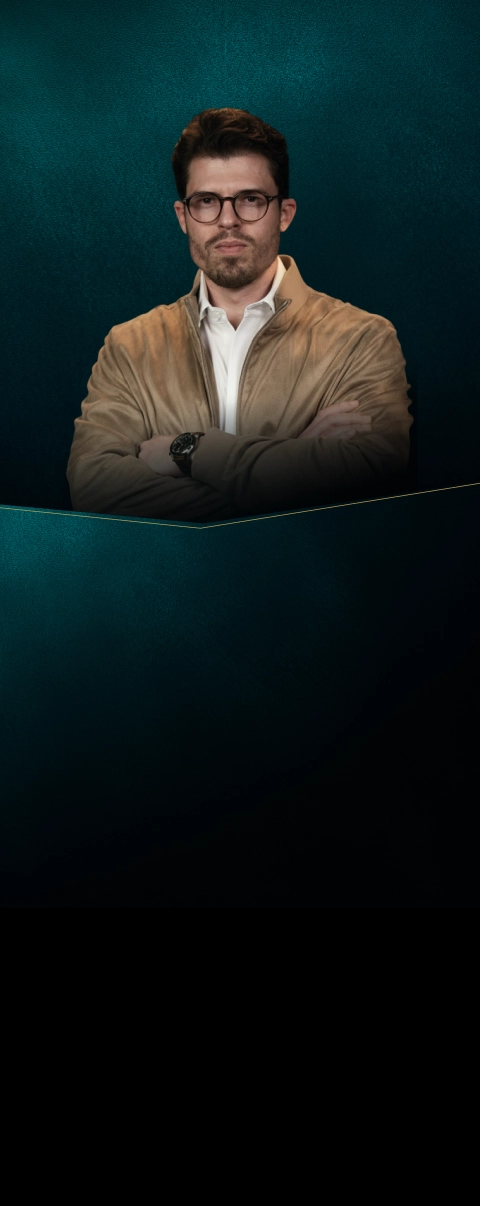
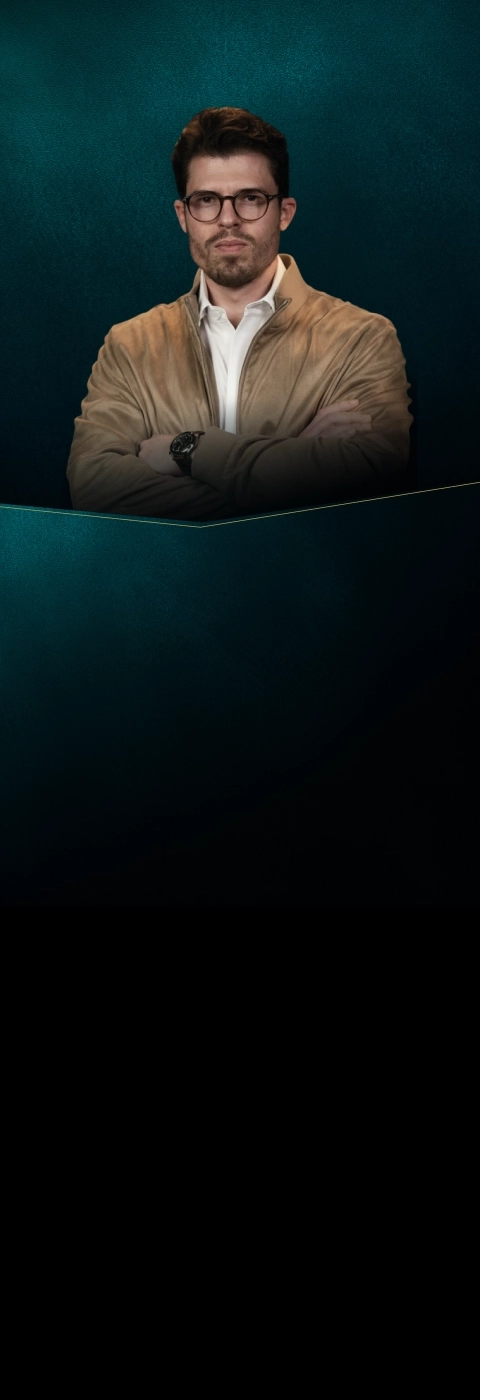
Troca de biografia ramon e adaptação de tamanho de fonte + bg de fundo

Changed region(s): [[0.0, 0.0614, 0.875, 0.5216]]

diff --git a/app/ldi/[version]/v5/fourth-section.tsx b/app/ldi/[version]/v5/fourth-section.tsx
@@ -9,7 +9,7 @@ export default function FourthSection() {
 		<section
 			className="
 				w-full
-				min-h-[1206px]
+				min-h-[1600px]
 				md:min-h-[916px]
 				bg-[#071117]
 				bg-[url('/images/v5/bg_fourth_mobile.webp')]
@@ -19,48 +19,46 @@ export default function FourthSection() {
 				bg-no-repeat
 				flex
 				flex-col
-				md:justify-center
-        justify-start
+				md:justify-start
+				justify-start
 				px-6
 				pt-6
 				pb-6
 				md:px-4
-				md:pt-16
+				md:pt-[260px]
 				md:pb-8
 			"
 		>
-			<div className="w-full max-w-[1156px] mx-auto flex items-start justify-end md:mt-[130px]">
+			<div className="w-full max-w-[1156px] mx-auto flex items-start justify-end">
 				<div className="flex flex-col gap-4 max-w-[517px] w-full">
 					<p className="text-[#0A3740] font-spectral text-[25px] md:text-[35px] text-center md:text-left leading-[125%] font-bold -mt-3 md:mt-0">
 						QUEM VAI SER O SEU MENTOR NESSA JORNADA?
 					</p>
 
-					<div className="mt-[380px] md:mt-0 w-full max-w-[350px] mx-auto flex flex-col gap-4 md:max-w-[517px]">
+					<div className="mt-[400px] md:mt-0 w-full max-w-[350px] mx-auto flex flex-col gap-4 md:max-w-[517px]">
 						<p className="text-[#C0964B] font-spectral text-[30px] text-left leading-[125%] font-bold md:mt-0">
 							Ramon Galimberti
 						</p>
 
-						{/* PARÁGRAFO 1 */}
-						<p className="text-[#0A3740] font-mulish text-[12px] md:text-[12px] text-left leading-[135%] font-semibold">
-							Engenheiro, mestre e mentor de desenvolvimento humano. Durante muito tempo, viveu a frustração de se esforçar, tentar, insistir — e mesmo assim ver a vida parar no quase. O dinheiro não permanecia, os planos não se firmavam, o relacionamento não deu certo e ele chegou a usar o ticket do pai para fazer compra no mercado e virar o mês. Era divorciado, estava travado em várias áreas da vida e carregava a sensação de que fazia muito, mas avançava pouco.
+						<p className="text-[#0A3740] font-mulish text-[16px] text-left leading-[135%] font-semibold">
+							Engenheiro, mestre e mentor de desenvolvimento humano. Durante muito tempo, Ramon viveu a frustração de se esforçar muito e ver a vida parar no quase. O dinheiro não permanecia, os planos não se firmavam, o relacionamento não deu certo e ele usava o ticket do pai para virar o mês.
 						</p>
 
-						{/* PARÁGRAFO 2 COM DESTAQUE */}
-						<p className="text-[#0A3740] font-mulish text-[12px] md:text-[12px] text-left leading-[135%] font-semibold">
-							Foi na busca por entender por que isso acontecia que Ramon encontrou uma resposta que mudou sua história. A partir daí, uniu sua base lógica em engenharia, seu olhar para o comportamento humano e sua experiência prática para desenvolver uma forma própria de identificar e corrigir os padrões invisíveis que travam dinheiro, relacionamentos, decisões e liberdade.{" "}
-							<span className="text-[#C0964B] font-extrabold">
-								Por que pessoas capazes continuam presas no quase.
-							</span>
+						<p className="text-[#0A3740] font-mulish text-[16px] text-left leading-[135%] font-semibold">
+							Travado na vida, buscou resposta do porquê isso acontecia. E assim, ele uniu seus conhecimentos em engenharia, comportamento humano e sua experiência prática para identificar e corrigir os padrões invisíveis que travam dinheiro, relacionamentos, decisões e liberdade.
 						</p>
 
-						{/* PARÁGRAFO 3 */}
-						<p className="text-[#0A3740] font-mulish text-[12px] md:text-[12px] text-left leading-[135%] font-semibold">
-							Hoje, Ramon é casado, construiu uma nova história, tornou-se o primeiro brasileiro autorizado a aplicar a Teoria da Permissão e tem mais de 160 mil pessoas acompanhando seu trabalho. Já foi convidado para compartilhar essa mensagem em emissoras como SBT, Band e Record porque fala de algo que muita gente vive, mas quase ninguém sabe explicar. No Levante dos Improváveis, Ramon conduz uma experiência para quem está cansado de repetir estagnação e quer entender o que realmente precisa ser corrigido para avançar.
+						<p className="text-[#0A3740] font-mulish text-[16px] text-left leading-[135%] font-semibold">
+							Hoje, Ramon é casado, construiu uma nova história e tornou-se o primeiro brasileiro autorizado a aplicar a Teoria da Permissão. Com mais de 160 mil seguidores e passagens por emissoras como SBT, Band e Record, vem falando de algo que muita gente vive, mas quase ninguém sabe explicar: por que pessoas capazes continuam presas no quase?
+						</p>
+
+						<p className="text-[#0A3740] font-mulish text-[16px] text-left leading-[135%] font-semibold">
+							No Levante dos Improváveis, Ramon conduz uma experiência para quem está cansado de repetir estagnação e quer entender o que realmente precisa ser corrigido para avançar.
 						</p>
 
 						<button
 							onClick={handleScroll}
-							className="mt-[12px] mb-[12px] w-full h-[64px] md:h-[64px] rounded-[8px] font-mulish font-extrabold text-[14px] md:text-[16px] leading-[145%] uppercase text-black transition-all hover:brightness-110 border border-[#FCF3D4] [background:linear-gradient(90deg,_#DFD2A7_0%,_#FCF3D4_100%)] shadow-[0px_6px_18.9px_0px_#F7EDCC85]"
+							className="mt-[12px] mb-[12px] w-full h-[64px] rounded-[8px] font-mulish font-extrabold text-[14px] md:text-[16px] leading-[145%] uppercase text-black transition-all hover:brightness-110 border border-[#FCF3D4] [background:linear-gradient(90deg,_#DFD2A7_0%,_#FCF3D4_100%)] shadow-[0px_6px_18.9px_0px_#F7EDCC85]"
 						>
 							PARTICIPAR GRATUITAMENTE
 						</button>

diff --git a/app/ldi/[version]/v6/fourth-section.tsx b/app/ldi/[version]/v6/fourth-section.tsx
@@ -9,7 +9,7 @@ export default function FourthSection() {
 		<section
 			className="
 				w-full
-				min-h-[1206px]
+				min-h-[1600px]
 				md:min-h-[916px]
 				bg-[#071117]
 				bg-[url('/images/v5/bg_fourth_mobile.webp')]
@@ -19,48 +19,46 @@ export default function FourthSection() {
 				bg-no-repeat
 				flex
 				flex-col
-				md:justify-center
-        justify-start
+				md:justify-start
+				justify-start
 				px-6
 				pt-6
 				pb-6
 				md:px-4
-				md:pt-16
+				md:pt-[260px]
 				md:pb-8
 			"
 		>
-			<div className="w-full max-w-[1156px] mx-auto flex items-start justify-end md:mt-[130px]">
+			<div className="w-full max-w-[1156px] mx-auto flex items-start justify-end">
 				<div className="flex flex-col gap-4 max-w-[517px] w-full">
 					<p className="text-[#0A3740] font-spectral text-[25px] md:text-[35px] text-center md:text-left leading-[125%] font-bold -mt-3 md:mt-0">
 						QUEM VAI SER O SEU MENTOR NESSA JORNADA?
 					</p>
 
-					<div className="mt-[380px] md:mt-0 w-full max-w-[350px] mx-auto flex flex-col gap-4 md:max-w-[517px]">
+					<div className="mt-[400px] md:mt-0 w-full max-w-[350px] mx-auto flex flex-col gap-4 md:max-w-[517px]">
 						<p className="text-[#C0964B] font-spectral text-[30px] text-left leading-[125%] font-bold md:mt-0">
 							Ramon Galimberti
 						</p>
 
-						{/* PARÁGRAFO 1 */}
-						<p className="text-[#0A3740] font-mulish text-[12px] md:text-[12px] text-left leading-[135%] font-semibold">
-							Engenheiro, mestre e mentor de desenvolvimento humano. Durante muito tempo, viveu a frustração de se esforçar, tentar, insistir — e mesmo assim ver a vida parar no quase. O dinheiro não permanecia, os planos não se firmavam, o relacionamento não deu certo e ele chegou a usar o ticket do pai para fazer compra no mercado e virar o mês. Era divorciado, estava travado em várias áreas da vida e carregava a sensação de que fazia muito, mas avançava pouco.
+						<p className="text-[#0A3740] font-mulish text-[16px] text-left leading-[135%] font-semibold">
+							Engenheiro, mestre e mentor de desenvolvimento humano. Durante muito tempo, Ramon viveu a frustração de se esforçar muito e ver a vida parar no quase. O dinheiro não permanecia, os planos não se firmavam, o relacionamento não deu certo e ele usava o ticket do pai para virar o mês.
 						</p>
 
-						{/* PARÁGRAFO 2 COM DESTAQUE */}
-						<p className="text-[#0A3740] font-mulish text-[12px] md:text-[12px] text-left leading-[135%] font-semibold">
-							Foi na busca por entender por que isso acontecia que Ramon encontrou uma resposta que mudou sua história. A partir daí, uniu sua base lógica em engenharia, seu olhar para o comportamento humano e sua experiência prática para desenvolver uma forma própria de identificar e corrigir os padrões invisíveis que travam dinheiro, relacionamentos, decisões e liberdade.{" "}
-							<span className="text-[#C0964B] font-extrabold">
-								Por que pessoas capazes continuam presas no quase.
-							</span>
+						<p className="text-[#0A3740] font-mulish text-[16px] text-left leading-[135%] font-semibold">
+							Travado na vida, buscou resposta do porquê isso acontecia. E assim, ele uniu seus conhecimentos em engenharia, comportamento humano e sua experiência prática para identificar e corrigir os padrões invisíveis que travam dinheiro, relacionamentos, decisões e liberdade.
 						</p>
 
-						{/* PARÁGRAFO 3 */}
-						<p className="text-[#0A3740] font-mulish text-[12px] md:text-[12px] text-left leading-[135%] font-semibold">
-							Hoje, Ramon é casado, construiu uma nova história, tornou-se o primeiro brasileiro autorizado a aplicar a Teoria da Permissão e tem mais de 160 mil pessoas acompanhando seu trabalho. Já foi convidado para compartilhar essa mensagem em emissoras como SBT, Band e Record porque fala de algo que muita gente vive, mas quase ninguém sabe explicar. No Levante dos Improváveis, Ramon conduz uma experiência para quem está cansado de repetir estagnação e quer entender o que realmente precisa ser corrigido para avançar.
+						<p className="text-[#0A3740] font-mulish text-[16px] text-left leading-[135%] font-semibold">
+							Hoje, Ramon é casado, construiu uma nova história e tornou-se o primeiro brasileiro autorizado a aplicar a Teoria da Permissão. Com mais de 160 mil seguidores e passagens por emissoras como SBT, Band e Record, vem falando de algo que muita gente vive, mas quase ninguém sabe explicar: por que pessoas capazes continuam presas no quase?
+						</p>
+
+						<p className="text-[#0A3740] font-mulish text-[16px] text-left leading-[135%] font-semibold">
+							No Levante dos Improváveis, Ramon conduz uma experiência para quem está cansado de repetir estagnação e quer entender o que realmente precisa ser corrigido para avançar.
 						</p>
 
 						<button
 							onClick={handleScroll}
-							className="mt-[12px] mb-[12px] w-full h-[64px] md:h-[64px] rounded-[8px] font-mulish font-extrabold text-[14px] md:text-[16px] leading-[145%] uppercase text-black transition-all hover:brightness-110 border border-[#FCF3D4] [background:linear-gradient(90deg,_#DFD2A7_0%,_#FCF3D4_100%)] shadow-[0px_6px_18.9px_0px_#F7EDCC85]"
+							className="mt-[12px] mb-[12px] w-full h-[64px] rounded-[8px] font-mulish font-extrabold text-[14px] md:text-[16px] leading-[145%] uppercase text-black transition-all hover:brightness-110 border border-[#FCF3D4] [background:linear-gradient(90deg,_#DFD2A7_0%,_#FCF3D4_100%)] shadow-[0px_6px_18.9px_0px_#F7EDCC85]"
 						>
 							PARTICIPAR GRATUITAMENTE
 						</button>

diff --git a/app/ldi/[version]/v4/fourth-section.tsx b/app/ldi/[version]/v4/fourth-section.tsx
@@ -9,7 +9,7 @@ export default function FourthSection() {
 		<section
 			className="
 				w-full
-				min-h-[1206px]
+				min-h-[1400px]
 				md:min-h-[862px]
 				bg-[#071117]
 				bg-[url('/images/v1/bg-ramon-mobile.webp')]
@@ -30,40 +30,40 @@ export default function FourthSection() {
 			"
 		>
 			<div className="w-full max-w-[1156px] mx-auto flex items-start justify-end">
-				<div className="flex flex-col gap-4 max-w-[517px] w-full">
-					<p className="text-[#D3CAC0] font-spectral text-[25px] md:text-[35px] text-center md:text-left leading-[125%] font-bold -mt-3 md:mt-0">
+				<div className="flex flex-col gap-4 max-w-[517px] w-full md:mt-[80px]">
+					
+					<p className="text-[#D3CAC0] font-spectral text-[25px] md:text-[35px] text-center md:text-left leading-[125%] font-bold relative -top-[10px] md:top-0">
 						QUEM VAI SER O SEU MENTOR NESSA JORNADA?
 					</p>
 
 					<div className="mt-[450px] md:mt-0 w-full max-w-[350px] mx-auto flex flex-col gap-4 md:max-w-[517px]">
+						
 						<p className="text-[#C0964B] font-spectral text-[30px] text-left leading-[125%] font-bold md:mt-0">
 							Ramon Galimberti
 						</p>
 
-						{/* PARÁGRAFO 1 */}
-						<p className="text-[#F4F0E1] font-mulish text-[13px] text-left leading-[135%] font-semibold">
-							Engenheiro, mestre e mentor de desenvolvimento humano. Durante muito tempo, viveu a frustração de se esforçar, tentar, insistir — e mesmo assim ver a vida parar no quase. O dinheiro não permanecia, os planos não se firmavam, o relacionamento não deu certo e ele chegou a usar o ticket do pai para fazer compra no mercado e virar o mês. Era divorciado, estava travado em várias áreas da vida e carregava a sensação de que fazia muito, mas avançava pouco.
+						<p className="text-[#F4F0E1] font-mulish text-[16px] text-left leading-[135%] font-semibold">
+							Engenheiro, mestre e mentor de desenvolvimento humano. Durante muito tempo, Ramon viveu a frustração de se esforçar muito e ver a vida parar no quase. O dinheiro não permanecia, os planos não se firmavam, o relacionamento não deu certo e ele usava o ticket do pai para virar o mês.
 						</p>
 
-						{/* PARÁGRAFO 2 COM DESTAQUE */}
-						<p className="text-[#F4F0E1] font-mulish text-[13px] text-left leading-[135%] font-semibold">
-							Foi na busca por entender por que isso acontecia que Ramon encontrou uma resposta que mudou sua história. A partir daí, uniu sua base lógica em engenharia, seu olhar para o comportamento humano e sua experiência prática para desenvolver uma forma própria de identificar e corrigir os padrões invisíveis que travam dinheiro, relacionamentos, decisões e liberdade.{" "}
-							<span className="text-[#C0964B]">
-								Por que pessoas capazes continuam presas no quase.
-							</span>
+						<p className="text-[#F4F0E1] font-mulish text-[16px] text-left leading-[135%] font-semibold">
+							Travado na vida, buscou resposta do porquê isso acontecia. E assim, ele uniu seus conhecimentos em engenharia, comportamento humano e sua experiência prática para identificar e corrigir os padrões invisíveis que travam dinheiro, relacionamentos, decisões e liberdade.
 						</p>
 
-						{/* PARÁGRAFO 3 */}
-						<p className="text-[#F4F0E1] font-mulish text-[13px] text-left leading-[135%] font-semibold">
-							Hoje, Ramon é casado, construiu uma nova história, tornou-se o primeiro brasileiro autorizado a aplicar a Teoria da Permissão e tem mais de 160 mil pessoas acompanhando seu trabalho. Já foi convidado para compartilhar essa mensagem em emissoras como SBT, Band e Record porque fala de algo que muita gente vive, mas quase ninguém sabe explicar. No Levante dos Improváveis, Ramon conduz uma experiência para quem está cansado de repetir estagnação e quer entender o que realmente precisa ser corrigido para avançar.
+						<p className="text-[#F4F0E1] font-mulish text-[16px] text-left leading-[135%] font-semibold">
+							Hoje, Ramon é casado, construiu uma nova história e tornou-se o primeiro brasileiro autorizado a aplicar a Teoria da Permissão. Com mais de 160 mil seguidores e passagens por emissoras como SBT, Band e Record, vem falando de algo que muita gente vive, mas quase ninguém sabe explicar: <span className="text-[#C0964B]">por que pessoas capazes continuam presas no quase?</span>
+						</p>
+
+						<p className="text-[#F4F0E1] font-mulish text-[16px] text-left leading-[135%] font-semibold">
+							No Levante dos Improváveis, Ramon conduz uma experiência para quem está cansado de repetir estagnação e quer entender o que realmente precisa ser corrigido para avançar.
 						</p>
 
 						<button
 							onClick={handleScroll}
-							className="mt-[12px] mb-[12px] w-full h-[64px] md:h-[64px] rounded-[8px] font-mulish font-extrabold text-[14px] md:text-[16px] leading-[145%] uppercase text-black transition-all hover:brightness-110 border border-[#FCF3D4] [background:linear-gradient(90deg,_#DFD2A7_0%,_#FCF3D4_100%)] shadow-[0px_6px_18.9px_0px_#F7EDCC85]"
-						>
+							className="mt-[12px] mb-[12px] w-full h-[64px] md:h-[64px] rounded-[8px] font-mulish font-extrabold text-[14px] md:text-[16px] leading-[145%] uppercase text-black transition-all hover:brightness-110 border border-[#FCF3D4] [background:linear-gradient(90deg,_#DFD2A7_0%,_#FCF3D4_100%)] shadow-[0px_6px_18.9px_0px_#F7EDCC85]">
 							PARTICIPAR GRATUITAMENTE
 						</button>
+
 					</div>
 				</div>
 			</div>

diff --git a/app/ldi/[version]/v3/fourth-section.tsx b/app/ldi/[version]/v3/fourth-section.tsx
@@ -9,7 +9,7 @@ export default function FourthSection() {
 		<section
 			className="
 				w-full
-				min-h-[1206px]
+				min-h-[1400px]
 				md:min-h-[862px]
 				bg-[#071117]
 				bg-[url('/images/v1/bg-ramon-mobile.webp')]
@@ -30,34 +30,31 @@ export default function FourthSection() {
 			"
 		>
 			<div className="w-full max-w-[1156px] mx-auto flex items-start justify-end">
-				<div className="flex flex-col gap-4 max-w-[517px] w-full">
-
-					<p className="text-[#D3CAC0] font-spectral text-[25px] md:text-[35px] text-center md:text-left leading-[125%] font-bold">
+				<div className="flex flex-col gap-4 max-w-[517px] w-full md:mt-[80px]">
+					
+					<p className="text-[#D3CAC0] font-spectral text-[25px] md:text-[35px] text-center md:text-left leading-[125%] font-bold relative -top-[10px] md:top-0">
 						QUEM VAI SER O SEU MENTOR NESSA JORNADA?
 					</p>
 
 					<div className="mt-[450px] md:mt-0 w-full max-w-[350px] mx-auto flex flex-col gap-4 md:max-w-[517px]">
-
+						
 						<p className="text-[#C0964B] font-spectral text-[30px] text-left leading-[125%] font-bold md:mt-0">
 							Ramon Galimberti
 						</p>
 
-						<p className="text-[#F4F0E1] font-mulish text-[12px] text-left leading-[135%] font-semibold">
-							Engenheiro, mestre e mentor de desenvolvimento humano. Durante muito tempo, viveu a frustração de se esforçar, tentar, insistir — e mesmo assim ver a vida parar no quase. O dinheiro não permanecia, os planos não se firmavam, o relacionamento não deu certo e ele chegou a usar o ticket do pai para fazer compra no mercado e virar o mês. Era divorciado, estava travado em várias áreas da vida e carregava a sensação de que fazia muito, mas avançava pouco.
+						<p className="text-[#F4F0E1] font-mulish text-[16px] text-left leading-[135%] font-semibold">
+							Engenheiro, mestre e mentor de desenvolvimento humano. Durante muito tempo, Ramon viveu a frustração de se esforçar muito e ver a vida parar no quase. O dinheiro não permanecia, os planos não se firmavam, o relacionamento não deu certo e ele usava o ticket do pai para virar o mês.
 						</p>
 
-						<p className="text-[#F4F0E1] font-mulish text-[12px] text-left leading-[135%] font-semibold">
-							Foi na busca por entender por que isso acontecia que Ramon encontrou uma resposta que mudou sua história. A partir daí, uniu sua base lógica em engenharia, seu olhar para o comportamento humano e sua experiência prática para desenvolver uma forma própria de identificar e corrigir os padrões invisíveis que travam dinheiro, relacionamentos, decisões e liberdade.
+						<p className="text-[#F4F0E1] font-mulish text-[16px] text-left leading-[135%] font-semibold">
+							Travado na vida, buscou resposta do porquê isso acontecia. E assim, ele uniu seus conhecimentos em engenharia, comportamento humano e sua experiência prática para identificar e corrigir os padrões invisíveis que travam dinheiro, relacionamentos, decisões e liberdade.
 						</p>
 
-						<p className="text-[#F4F0E1] font-mulish text-[12px] text-left leading-[135%] font-semibold">
-							<span className="text-[#C0964B]">
-								Por que pessoas capazes continuam presas no quase.
-							</span>{" "}
-							Hoje, Ramon é casado, construiu uma nova história, tornou-se o primeiro brasileiro autorizado a aplicar a Teoria da Permissão e tem mais de 160 mil pessoas acompanhando seu trabalho. Já foi convidado para compartilhar essa mensagem em emissoras como SBT, Band e Record porque fala de algo que muita gente vive, mas quase ninguém sabe explicar.
+						<p className="text-[#F4F0E1] font-mulish text-[16px] text-left leading-[135%] font-semibold">
+							Hoje, Ramon é casado, construiu uma nova história e tornou-se o primeiro brasileiro autorizado a aplicar a Teoria da Permissão. Com mais de 160 mil seguidores e passagens por emissoras como SBT, Band e Record, vem falando de algo que muita gente vive, mas quase ninguém sabe explicar: <span className="text-[#C0964B]">por que pessoas capazes continuam presas no quase?</span>
 						</p>
 
-						<p className="text-[#F4F0E1] font-mulish text-[12px] text-left leading-[135%] font-semibold">
+						<p className="text-[#F4F0E1] font-mulish text-[16px] text-left leading-[135%] font-semibold">
 							No Levante dos Improváveis, Ramon conduz uma experiência para quem está cansado de repetir estagnação e quer entender o que realmente precisa ser corrigido para avançar.
 						</p>
 

diff --git a/app/ldi/[version]/v1/fourth-section.tsx b/app/ldi/[version]/v1/fourth-section.tsx
@@ -9,7 +9,7 @@ export default function FourthSection() {
 		<section
 			className="
 				w-full
-				min-h-[1206px]
+				min-h-[1400px]
 				md:min-h-[862px]
 				bg-[#071117]
 				bg-[url('/images/v1/bg-ramon-mobile.webp')]
@@ -30,9 +30,9 @@ export default function FourthSection() {
 			"
 		>
 			<div className="w-full max-w-[1156px] mx-auto flex items-start justify-end">
-				<div className="flex flex-col gap-4 max-w-[517px] w-full">
+				<div className="flex flex-col gap-4 max-w-[517px] w-full md:mt-[80px]">
 					
-					<p className="text-[#D3CAC0] font-spectral text-[25px] md:text-[35px] text-center md:text-left leading-[125%] font-bold">
+					<p className="text-[#D3CAC0] font-spectral text-[25px] md:text-[35px] text-center md:text-left leading-[125%] font-bold relative -top-[10px] md:top-0">
 						QUEM VAI SER O SEU MENTOR NESSA JORNADA?
 					</p>
 
@@ -42,22 +42,19 @@ export default function FourthSection() {
 							Ramon Galimberti
 						</p>
 
-						<p className="text-[#F4F0E1] font-mulish text-[12px] text-left leading-[135%] font-semibold">
-							Engenheiro, mestre e mentor de desenvolvimento humano. Durante muito tempo, viveu a frustração de se esforçar, tentar, insistir — e mesmo assim ver a vida parar no quase. O dinheiro não permanecia, os planos não se firmavam, o relacionamento não deu certo e ele chegou a usar o ticket do pai para fazer compra no mercado e virar o mês. Era divorciado, estava travado em várias áreas da vida e carregava a sensação de que fazia muito, mas avançava pouco.
+						<p className="text-[#F4F0E1] font-mulish text-[16px] text-left leading-[135%] font-semibold">
+							Engenheiro, mestre e mentor de desenvolvimento humano. Durante muito tempo, Ramon viveu a frustração de se esforçar muito e ver a vida parar no quase. O dinheiro não permanecia, os planos não se firmavam, o relacionamento não deu certo e ele usava o ticket do pai para virar o mês.
 						</p>
 
-						<p className="text-[#F4F0E1] font-mulish text-[12px] text-left leading-[135%] font-semibold">
-							Foi na busca por entender por que isso acontecia que Ramon encontrou uma resposta que mudou sua história. A partir daí, uniu sua base lógica em engenharia, seu olhar para o comportamento humano e sua experiência prática para desenvolver uma forma própria de identificar e corrigir os padrões invisíveis que travam dinheiro, relacionamentos, decisões e liberdade.
+						<p className="text-[#F4F0E1] font-mulish text-[16px] text-left leading-[135%] font-semibold">
+							Travado na vida, buscou resposta do porquê isso acontecia. E assim, ele uniu seus conhecimentos em engenharia, comportamento humano e sua experiência prática para identificar e corrigir os padrões invisíveis que travam dinheiro, relacionamentos, decisões e liberdade.
 						</p>
 
-						<p className="text-[#F4F0E1] font-mulish text-[12px] text-left leading-[135%] font-semibold">
-							<span className="text-[#C0964B]">
-								Por que pessoas capazes continuam presas no quase.
-							</span>{" "}
-							Hoje, Ramon é casado, construiu uma nova história, tornou-se o primeiro brasileiro autorizado a aplicar a Teoria da Permissão e tem mais de 160 mil pessoas acompanhando seu trabalho. Já foi convidado para compartilhar essa mensagem em emissoras como SBT, Band e Record porque fala de algo que muita gente vive, mas quase ninguém sabe explicar.
+						<p className="text-[#F4F0E1] font-mulish text-[16px] text-left leading-[135%] font-semibold">
+							Hoje, Ramon é casado, construiu uma nova história e tornou-se o primeiro brasileiro autorizado a aplicar a Teoria da Permissão. Com mais de 160 mil seguidores e passagens por emissoras como SBT, Band e Record, vem falando de algo que muita gente vive, mas quase ninguém sabe explicar: <span className="text-[#C0964B]">por que pessoas capazes continuam presas no quase?</span>
 						</p>
 
-						<p className="text-[#F4F0E1] font-mulish text-[12px] text-left leading-[135%] font-semibold">
+						<p className="text-[#F4F0E1] font-mulish text-[16px] text-left leading-[135%] font-semibold">
 							No Levante dos Improváveis, Ramon conduz uma experiência para quem está cansado de repetir estagnação e quer entender o que realmente precisa ser corrigido para avançar.
 						</p>
 

diff --git a/app/ldi/[version]/v2/fourth-section.tsx b/app/ldi/[version]/v2/fourth-section.tsx
@@ -19,7 +19,7 @@ export default function FourthSection({
     <section
       className="
         w-full
-        min-h-[1565px]
+        min-h-[1800px]
         md:min-h-[956px]
         bg-[#071117]
         bg-[url('/images/v2/bg_ramon_mobile.webp')]
@@ -45,42 +45,22 @@ export default function FourthSection({
             Ramon Galimberti
           </p>
 
-          <div className="font-spectral font-normal not-italic text-[14px] leading-[24px] tracking-[0] align-middle text-white flex flex-col gap-0 mt-[300px] md:mt-0 md:text-[14px] md:leading-[24px] md:gap-7">
+          <div className="font-spectral font-normal not-italic text-[18px] leading-[24px] tracking-[0] align-middle text-white flex flex-col gap-0 mt-[240px] md:mt-0 md:text-[18px] md:leading-[24px] md:gap-7">
+            
             <p>
-              Engenheiro, mestre e mentor de desenvolvimento humano. Durante
-              muito tempo, viveu a frustração de se esforçar, tentar, insistir —
-              e mesmo assim ver a vida parar no quase. O dinheiro não permanecia,
-              os planos não se firmavam, o relacionamento não deu certo e ele
-              chegou a usar o ticket do pai para fazer compra no mercado e virar
-              o mês. Era divorciado, estava travado em várias áreas da vida e
-              carregava a sensação de que fazia muito, mas avançava pouco.
+              Engenheiro, mestre e mentor de desenvolvimento humano. Durante muito tempo, Ramon viveu a frustração de se esforçar muito e ver a vida parar no quase. O dinheiro não permanecia, os planos não se firmavam, o relacionamento não deu certo e ele usava o ticket do pai para virar o mês.
             </p>
 
             <p>
-              Foi na busca por entender por que isso acontecia que Ramon
-              encontrou uma resposta que mudou sua história. A partir daí, uniu
-              sua base lógica em engenharia, seu olhar para o comportamento
-              humano e sua experiência prática para desenvolver uma forma própria
-              de identificar e corrigir os padrões invisíveis que travam
-              dinheiro, relacionamentos, decisões e liberdade.
+              Travado na vida, buscou resposta do porquê isso acontecia. E assim, ele uniu seus conhecimentos em engenharia, comportamento humano e sua experiência prática para identificar e corrigir os padrões invisíveis que travam dinheiro, relacionamentos, decisões e liberdade.
             </p>
 
             <p>
-              <span className="text-[#C0964B]">
-                por que pessoas capazes continuam presas no quase.
-              </span>{" "}
-              Hoje, Ramon é casado, construiu uma nova história, tornou-se o
-              primeiro brasileiro autorizado a aplicar a Teoria da Permissão e
-              tem mais de 160 mil pessoas acompanhando seu trabalho. Já foi
-              convidado para compartilhar essa mensagem em emissoras como SBT,
-              Band e Record porque fala de algo que muita gente vive, mas quase
-              ninguém sabe explicar.
+              Hoje, Ramon é casado, construiu uma nova história e tornou-se o primeiro brasileiro autorizado a aplicar a Teoria da Permissão. Com mais de 160 mil seguidores e passagens por emissoras como SBT, Band e Record, vem falando de algo que muita gente vive, mas quase ninguém sabe explicar: <span className="text-[#C0964B]">por que pessoas capazes continuam presas no quase?</span>
             </p>
 
             <p>
-              No Levante dos Improváveis, Ramon conduz uma experiência para quem
-              está cansado de repetir estagnação e quer entender o que realmente
-              precisa ser corrigido para avançar.
+              No Levante dos Improváveis, Ramon conduz uma experiência para quem está cansado de repetir estagnação e quer entender o que realmente precisa ser corrigido para avançar.
             </p>
 
             <DialogCustom
